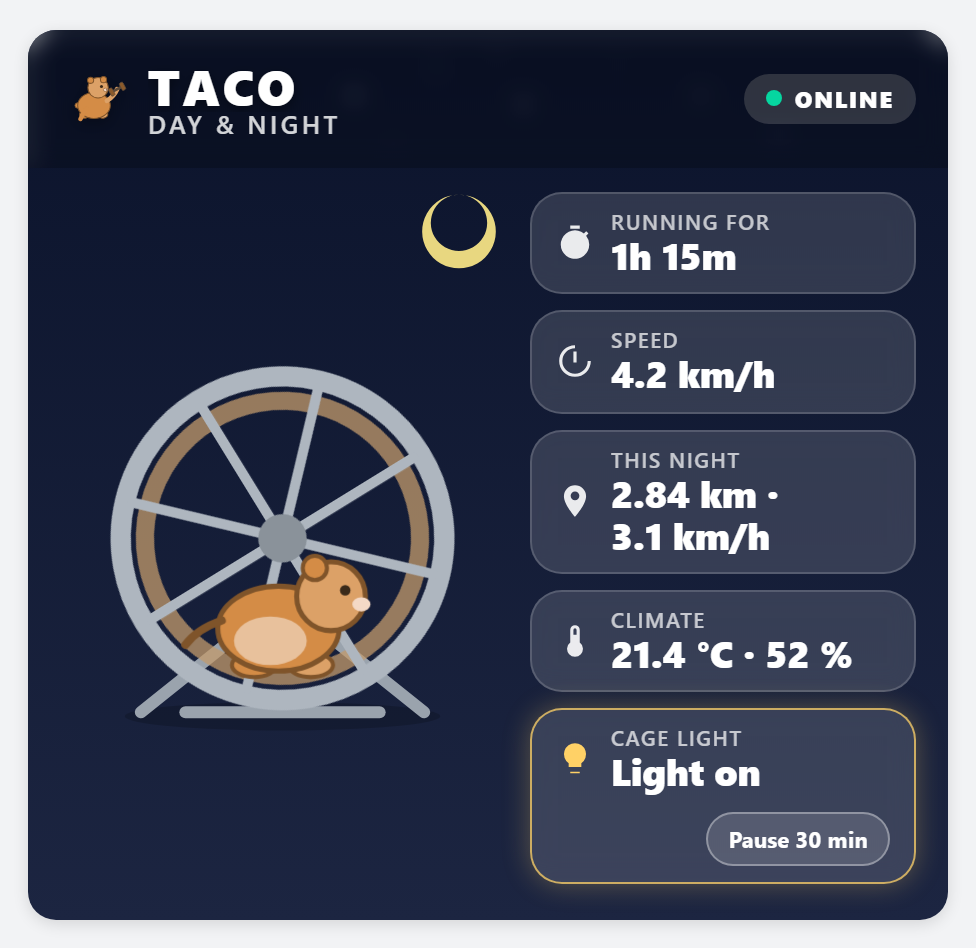
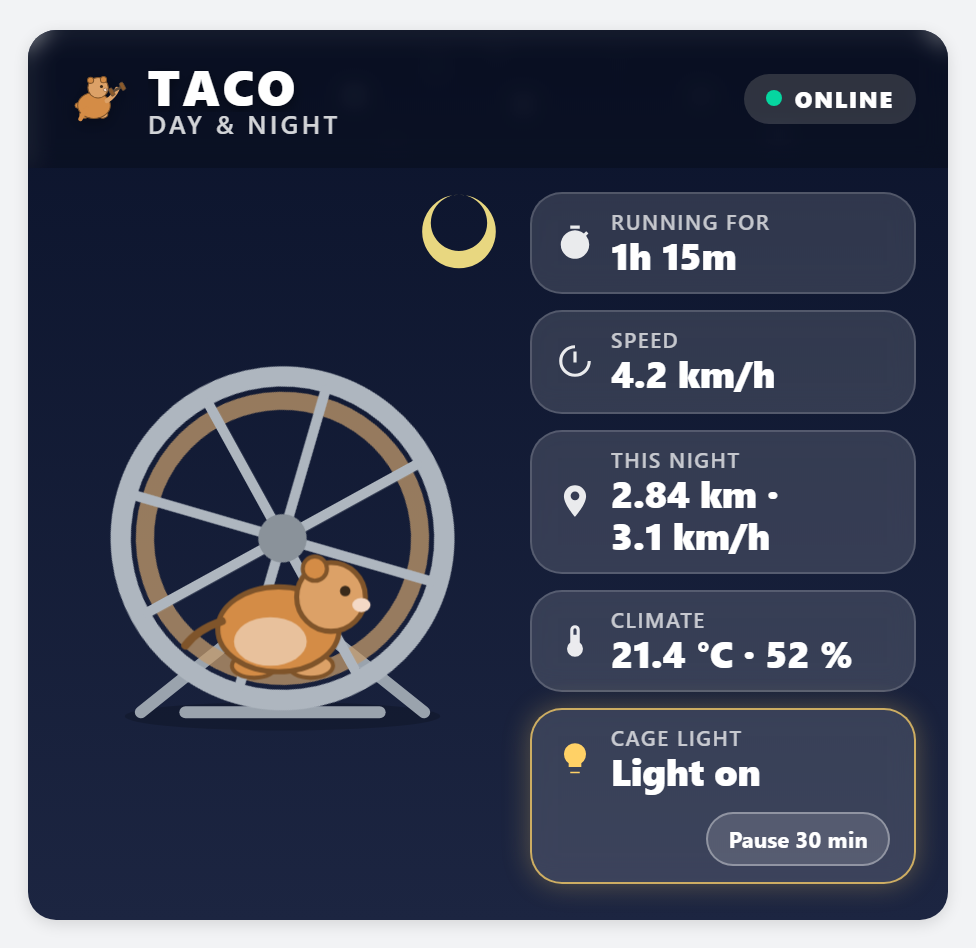
Count running sessions per night, and show them on the Running card
Total active time hides the pattern it is made of: ninety minutes in
one go and six bursts of fifteen add up to the same number, but they
are not the same night.

The coordinator already knew where a session begins - the branch that
starts one also increments the sleep-disturbance counter. That counter
answers a different question (was the hamster woken, daytime only), so
this adds its own night-scoped tally next to it rather than reusing it.
Reset with the rest of the night-window state, and not persisted, for
the same reason _night_active_minutes isn't.

The count rides inside its bar rather than earning a fourth axis: it is
a small integer, and an axis for it would cost more room than it
explains. Drawn after the overlay lines, because the speed line runs
right across the bar tops and was striking the digits through, and
outlined in the bar's own colour so a crossing line still can't cut one
in half. Bars too short to hold a digit legibly just omit it.

Nights recorded before this existed carry no count, so the card shows
no number and drops the legend entry for them - the history survives
upgrades, and a zero would read as "never ran" rather than "not
recorded".

Closes #90

diff --git a/custom_components/hamster_fitness/frontend/hamster-running-card.js b/custom_components/hamster_fitness/frontend/hamster-running-card.js
@@ -33,7 +33,7 @@ import {
   renderCardHeader,
   deviceDisplayName,
   t,
-} from "./hamster-fitness-shared.js?v=12";
+} from "./hamster-fitness-shared.js?v=13";
 
 const ENTITY_PATTERN = /^sensor\.(.+)_health_score$/;
 
@@ -153,6 +153,10 @@ class HamsterRunningCard extends HTMLElement {
       avg_speed_kmh: _num(item.avg_speed_kmh),
       temperature_c: _num(item.temperature_c),
       humidity_pct: _num(item.humidity_pct),
+      // Absent on nights recorded before session counting existed - the
+      // history survives upgrades, so old entries simply have no number
+      // rather than a misleading zero.
+      sessions: _num(item.sessions),
     }));
   }
 
@@ -187,6 +191,29 @@ class HamsterRunningCard extends HTMLElement {
           <text class="hrc-xlabel" x="${x.toFixed(1)}" y="${CHART_H - 5}"
                 text-anchor="middle">${fmtWeekday(this._hass, night.date)}</text>
         `;
+      })
+      .join("");
+  }
+
+  /**
+   * The per-night session counts, drawn inside the top of each bar.
+   *
+   * A count, not a measurement - so it rides in the bar rather than
+   * earning a fourth axis for a single-digit integer. Rendered after the
+   * overlay lines on purpose: the speed line runs right across the bar
+   * tops and was striking the digits through.
+   */
+  _sessionLabels(nights, max) {
+    const slot = PLOT_W / nights.length;
+    return nights
+      .map((night, i) => {
+        const h = Number.isFinite(night.distance) ? (night.distance / max) * PLOT_H : 0;
+        // Skip bars too short to hold the digit inside them.
+        if (!Number.isFinite(night.sessions) || night.sessions <= 0 || h <= 16) return "";
+        const x = PAD_LEFT + slot * (i + 0.5);
+        const y = PAD_TOP + PLOT_H - h + 11;
+        return `<text class="hrc-sessions" x="${x.toFixed(1)}" y="${y.toFixed(1)}"
+                      text-anchor="middle">${night.sessions}</text>`;
       })
       .join("");
   }
@@ -280,11 +307,12 @@ class HamsterRunningCard extends HTMLElement {
         ${this._rule(average, max, "hrc-rule-avg")}
         ${this._rule(goal, max, "hrc-rule-goal")}
         ${lines}
+        ${this._sessionLabels(nights, max)}
       </svg>
     `;
   }
 
-  _legend(goal) {
+  _legend(goal, nights) {
     const goalText =
       goal > 0
         ? `<span class="hrc-legend-item"><i class="hrc-swatch hrc-swatch-goal"></i>${t(
@@ -292,6 +320,14 @@ class HamsterRunningCard extends HTMLElement {
             "running.goal"
           )} ${fmtNumber(this._hass, goal, 1, "km")}</span>`
         : "";
+    // Only explained when a number is actually on a bar - nights recorded
+    // before session counting existed carry none.
+    const sessionsText = nights.some((n) => Number.isFinite(n.sessions) && n.sessions > 0)
+      ? `<span class="hrc-legend-item"><i class="hrc-swatch hrc-swatch-sessions"></i>${t(
+          this._hass,
+          "running.sessions"
+        )}</span>`
+      : "";
     return `
       <div class="hrc-legend">
         <span class="hrc-legend-item"><i class="hrc-swatch hrc-swatch-avg"></i>${t(
@@ -299,6 +335,7 @@ class HamsterRunningCard extends HTMLElement {
           "running.average"
         )}</span>
         ${goalText}
+        ${sessionsText}
       </div>
     `;
   }
@@ -394,7 +431,7 @@ class HamsterRunningCard extends HTMLElement {
     this._bodyEl.innerHTML = nights.length
       ? `
         ${this._chart(nights, goal)}
-        ${this._legend(goal)}
+        ${this._legend(goal, nights)}
         ${this._toggles()}
         ${this._records(attrs)}
       `
@@ -475,6 +512,19 @@ HamsterRunningCard.styles = `
     font-size: 9px;
     font-family: inherit;
   }
+  /* Sits on the bar itself, so it needs to read against the coat colour
+     rather than against the card background. */
+  .hrc-sessions {
+    fill: #ffffff;
+    font-size: 9px;
+    font-weight: 700;
+    font-family: inherit;
+    /* Outlined in the bar's own colour and painted stroke-first, so a
+       line crossing the bar top cannot cut the digit in half. */
+    stroke: var(--hf-fur, #D48C46);
+    stroke-width: 2.5;
+    paint-order: stroke;
+  }
   .hrc-rule-goal {
     stroke: #2a9d8f;
     stroke-width: 1.5;
@@ -521,6 +571,12 @@ HamsterRunningCard.styles = `
   }
   .hrc-swatch-avg {
     background: var(--secondary-text-color);
+  }
+  .hrc-swatch-sessions {
+    width: 8px;
+    height: 8px;
+    border-radius: 2px;
+    background: var(--hf-fur, #D48C46);
   }
   .hrc-toggle {
     display: inline-flex;

diff --git a/tools/card-preview/screenshots.html b/tools/card-preview/screenshots.html
@@ -148,13 +148,13 @@ function healthHass() {
       lifetime_max_speed_kmh: 12.8,
       lifetime_max_speed_date: "2026-07-09",
       night_history: [
-        { date: "2026-07-31", distance_km: 4.1, avg_speed_kmh: 2.6, max_speed_kmh: 9.4, temperature_c: 22.8, humidity_pct: 54 },
-        { date: "2026-08-01", distance_km: 6.7, avg_speed_kmh: 3.4, max_speed_kmh: 11.1, temperature_c: 21.9, humidity_pct: 51 },
-        { date: "2026-08-02", distance_km: 8.2, avg_speed_kmh: 3.9, max_speed_kmh: 12.0, temperature_c: 20.4, humidity_pct: 49 },
-        { date: "2026-08-03", distance_km: 5.4, avg_speed_kmh: 3.1, max_speed_kmh: 10.2, temperature_c: 23.6, humidity_pct: 57 },
-        { date: "2026-08-04", distance_km: 2.9, avg_speed_kmh: 2.2, max_speed_kmh: 7.8, temperature_c: 25.9, humidity_pct: 61 },
-        { date: "2026-08-05", distance_km: 7.1, avg_speed_kmh: 3.6, max_speed_kmh: 11.6, temperature_c: 21.2, humidity_pct: 50 },
-        { date: "2026-08-06", distance_km: 6.1, avg_speed_kmh: 3.3, max_speed_kmh: 10.8, temperature_c: 22.1, humidity_pct: 52 },
+        { sessions: 3, date: "2026-07-31", distance_km: 4.1, avg_speed_kmh: 2.6, max_speed_kmh: 9.4, temperature_c: 22.8, humidity_pct: 54 },
+        { sessions: 5, date: "2026-08-01", distance_km: 6.7, avg_speed_kmh: 3.4, max_speed_kmh: 11.1, temperature_c: 21.9, humidity_pct: 51 },
+        { sessions: 6, date: "2026-08-02", distance_km: 8.2, avg_speed_kmh: 3.9, max_speed_kmh: 12.0, temperature_c: 20.4, humidity_pct: 49 },
+        { sessions: 4, date: "2026-08-03", distance_km: 5.4, avg_speed_kmh: 3.1, max_speed_kmh: 10.2, temperature_c: 23.6, humidity_pct: 57 },
+        { sessions: 2, date: "2026-08-04", distance_km: 2.9, avg_speed_kmh: 2.2, max_speed_kmh: 7.8, temperature_c: 25.9, humidity_pct: 61 },
+        { sessions: 5, date: "2026-08-05", distance_km: 7.1, avg_speed_kmh: 3.6, max_speed_kmh: 11.6, temperature_c: 21.2, humidity_pct: 50 },
+        { sessions: 4, date: "2026-08-06", distance_km: 6.1, avg_speed_kmh: 3.3, max_speed_kmh: 10.8, temperature_c: 22.1, humidity_pct: 52 },
       ],
     },
   };

diff --git a/custom_components/hamster_fitness/frontend/hamster-fitness-shared.js b/custom_components/hamster_fitness/frontend/hamster-fitness-shared.js
@@ -189,6 +189,7 @@ const STRINGS = {
     "running.average": "Average",
     "running.temperature": "Temperature",
     "running.humidity": "Humidity",
+    "running.sessions": "Runs per night (in the bar)",
     "running.records": "Personal bests",
     "running.bestNight": "Longest night",
     "running.fastest": "Fastest ever",
@@ -403,6 +404,7 @@ const STRINGS = {
     "running.average": "Durchschnitt",
     "running.temperature": "Temperatur",
     "running.humidity": "Luftfeuchtigkeit",
+    "running.sessions": "Läufe pro Nacht (im Balken)",
     "running.records": "Bestleistungen",
     "running.bestNight": "Längste Nacht",
     "running.fastest": "Schnellster Wert",

diff --git a/custom_components/hamster_fitness/frontend/hamster-day-night-card.js b/custom_components/hamster_fitness/frontend/hamster-day-night-card.js
@@ -43,7 +43,7 @@ import {
   renderCardHeader,
   siblingEntityId,
   t,
-} from "./hamster-fitness-shared.js?v=12";
+} from "./hamster-fitness-shared.js?v=13";
 
 const HEALTH_SCORE_SUFFIX = "_health_score";
 const ENTITY_PATTERN = /^sensor\.(.+)_health_score$/;

diff --git a/custom_components/hamster_fitness/frontend/hamster-weight-card.js b/custom_components/hamster_fitness/frontend/hamster-weight-card.js
@@ -39,7 +39,7 @@ import {
   renderCardHeader,
   siblingEntityId,
   t,
-} from "./hamster-fitness-shared.js?v=12";
+} from "./hamster-fitness-shared.js?v=13";
 
 const HEALTH_SCORE_SUFFIX = "_health_score";
 const ENTITY_PATTERN = /^sensor\.(.+)_health_score$/;

diff --git a/custom_components/hamster_fitness/frontend/hamster-chronicle-card.js b/custom_components/hamster_fitness/frontend/hamster-chronicle-card.js
@@ -40,7 +40,7 @@ import {
   deviceDisplayName,
   t,
   HAMSTER_PREFIX,
-} from "./hamster-fitness-shared.js?v=12";
+} from "./hamster-fitness-shared.js?v=13";
 
 const LIFETIME_DISTANCE_PATTERN = /^sensor\.(.+)_lifetime_distance$/;
 

diff --git a/custom_components/hamster_fitness/frontend/hamster-fitness-card.js b/custom_components/hamster_fitness/frontend/hamster-fitness-card.js
@@ -57,7 +57,7 @@ import {
   shade,
   siblingEntityId,
   t,
-} from "./hamster-fitness-shared.js?v=12";
+} from "./hamster-fitness-shared.js?v=13";
 
 const WARNING_SCORE_THRESHOLD = 50;
 const GOOD_SCORE_THRESHOLD = 75;

diff --git a/custom_components/hamster_fitness/coordinator.py b/custom_components/hamster_fitness/coordinator.py
@@ -146,6 +146,11 @@ class HamsterFitnessData:
     # Sekunden würde nur die gerade aktuelle Geschwindigkeit wiedergeben,
     # nicht "wie ist der Hamster heute Nacht gelaufen".
     night_avg_speed_kmh: float | None = None
+    # Anzahl getrennter Lauf-Sessions in diesem Nachtfenster (Pausen
+    # < SESSION_END_GAP trennen nicht, siehe _update_activity_session).
+    # Die Gesamtzeit allein verschweigt das Muster: 90 Minuten am Stück
+    # und sechsmal 15 Minuten ergeben dieselbe Summe.
+    night_sessions: int = 0
     # Endstand des zuletzt ABGESCHLOSSENEN Nachtfensters (eingefroren beim
     # Reset um NIGHT_WINDOW_START_HOUR). Zusammen mit night_distance_km die
     # Grundlage des Bewegungs-Abzugs, siehe _effective_distance_km() - ohne
@@ -313,6 +318,11 @@ class HamsterFitnessCoordinator(DataUpdateCoordinator[HamsterFitnessData]):
         # Summen laufen über dasselbe Fenster wie night_distance_km und
         # werden beim Nachtfenster-Reset in einen Mittelwert aufgelöst.
         self._night_history: list[dict[str, Any]] = []
+        # Wie viele getrennte Lauf-Sessions dieses Nachtfenster hatte.
+        # Aussagekräftig zusätzlich zur Gesamtzeit: 90 Minuten am Stück
+        # sehen anders aus als sechsmal 15 Minuten, obwohl die Summe
+        # gleich ist. Wie _night_active_minutes bewusst nicht persistiert.
+        self._night_sessions: int = 0
         self._night_temp_sum: float = 0.0
         self._night_temp_samples: int = 0
         self._night_humidity_sum: float = 0.0
@@ -726,6 +736,7 @@ class HamsterFitnessCoordinator(DataUpdateCoordinator[HamsterFitnessData]):
         )
         self._max_speed_tonight_kmh = None
         self._night_active_minutes = 0.0
+        self._night_sessions = 0
         self._night_temp_sum = 0.0
         self._night_temp_samples = 0
         self._night_humidity_sum = 0.0
@@ -770,6 +781,7 @@ class HamsterFitnessCoordinator(DataUpdateCoordinator[HamsterFitnessData]):
             "distance_km": round(self.data.night_distance_km, 3),
             "avg_speed_kmh": self.data.night_avg_speed_kmh,
             "max_speed_kmh": self._max_speed_tonight_kmh,
+            "sessions": self._night_sessions,
             "temperature_c": (
                 round(self._night_temp_sum / self._night_temp_samples, 1)
                 if self._night_temp_samples
@@ -1170,6 +1182,10 @@ class HamsterFitnessCoordinator(DataUpdateCoordinator[HamsterFitnessData]):
             self._last_activity_at = now
             if self._session_start_at is None:
                 self._session_start_at = now
+                # Counted for the night, whenever it happens. The sleep
+                # counter below is a different question - it asks whether
+                # the hamster was woken, and only fires during the day.
+                self._night_sessions += 1
                 if _in_sleep_phase(now):
                     # Der Hamster läuft mitten in seiner Hauptschlafphase -
                     # meist ein Zeichen dafür, dass ihn etwas geweckt hat.
@@ -1384,6 +1400,7 @@ class HamsterFitnessCoordinator(DataUpdateCoordinator[HamsterFitnessData]):
             previous_day_distance_km=self._previous_day_distance_km,
             night_distance_km=round(night_distance_km, 3),
             night_avg_speed_kmh=night_avg_speed_kmh,
+            night_sessions=self._night_sessions,
             last_completed_night_km=round(self._last_completed_night_km, 3),
             lifetime_distance_km=round(lifetime_distance_km, 3),
             temperature=temperature,

diff --git a/tests/test_night_history.py b/tests/test_night_history.py
@@ -89,6 +89,7 @@ async def test_closing_a_night_appends_one_entry(hass: HomeAssistant) -> None:
         "distance_km",
         "avg_speed_kmh",
         "max_speed_kmh",
+        "sessions",
         "temperature_c",
         "humidity_pct",
     }
@@ -230,3 +231,52 @@ async def test_best_night_outlives_the_rolling_window(hass: HomeAssistant) -> No
     assert 42.0 not in [
         item["distance_km"] for item in coordinator.data.night_history
     ]
+
+
+async def test_sessions_are_counted_per_night(hass: HomeAssistant) -> None:
+    """Total active time hides the pattern; the count is what shows it.
+
+    Ninety minutes in one go and six bursts of fifteen add up the same,
+    so the number of separate sessions is tracked alongside the duration.
+    """
+    coordinator = await _setup(hass)
+    now = dt_util.utcnow()
+
+    # Two pulses inside one session, then a gap long enough to end it,
+    # then another pulse - two sessions, not three and not one.
+    coordinator._update_activity_session(now, activity_detected=True)
+    coordinator._update_activity_session(now + timedelta(minutes=1), True)
+    assert coordinator._night_sessions == 1
+
+    later = now + timedelta(hours=3)
+    coordinator._update_activity_session(later, activity_detected=False)
+    coordinator._update_activity_session(later, activity_detected=True)
+
+    assert coordinator._night_sessions == 2
+
+
+async def test_session_count_lands_in_the_night_entry(hass: HomeAssistant) -> None:
+    coordinator = await _setup(hass)
+
+    coordinator._update_activity_session(dt_util.utcnow(), activity_detected=True)
+    _close_night(coordinator)
+    await hass.async_block_till_done()
+
+    assert coordinator.data.night_history[0]["sessions"] == 1
+
+
+async def test_session_count_resets_between_nights(hass: HomeAssistant) -> None:
+    """Otherwise every night would inherit the previous night's total."""
+    coordinator = await _setup(hass)
+
+    coordinator._update_activity_session(dt_util.utcnow(), activity_detected=True)
+    _close_night(coordinator)
+    await hass.async_block_till_done()
+
+    assert coordinator.data.night_sessions == 0
+
+    coordinator._night_window_start = dt_util.now() - timedelta(days=1)
+    _close_night(coordinator)
+    await hass.async_block_till_done()
+
+    assert coordinator.data.night_history[-1]["sessions"] == 0

diff --git a/custom_components/hamster_fitness/const.py b/custom_components/hamster_fitness/const.py
@@ -332,7 +332,7 @@ URL_BASE: Final = f"/{DOMAIN}-frontend"
 # Bei jeder Änderung an hamster-fitness-shared.js hochzählen UND denselben
 # Wert in den ?v=-Importen aller Kartendateien nachziehen. tests/
 # test_frontend_resources.py prüft das ab, damit es nicht vergessen wird.
-SHARED_MODULE_VERSION: Final = "12"
+SHARED_MODULE_VERSION: Final = "13"
 # "version" steuert das Cache-Busting (?v=...) der Lovelace-Resource - bei
 # jeder inhaltlichen Änderung an der .js-Datei hochzählen, sonst laden
 # Browser ggf. die alte, gecachte Version weiter aus.
@@ -355,7 +355,7 @@ JS_MODULES: Final[list[dict[str, str]]] = [
     {
         "name": "Hamster Running Card",
         "filename": "hamster-running-card.js",
-        "version": "1",
+        "version": "2",
     },
     {
         "name": "Hamster Weight Card",

diff --git a/custom_components/hamster_fitness/sensor.py b/custom_components/hamster_fitness/sensor.py
@@ -122,6 +122,7 @@ class HamsterHealthScoreSensor(HamsterFitnessSensorBase):
             **self._profile,
             "night_distance_km": data.night_distance_km,
             "night_avg_speed_kmh": data.night_avg_speed_kmh,
+            "night_sessions": data.night_sessions,
             "last_completed_night_km": data.last_completed_night_km,
             "daily_distance_km": data.daily_distance_km,
             "temperature": data.temperature,

diff --git a/docs/cards/running.md b/docs/cards/running.md
@@ -18,6 +18,11 @@ answers "is that normal". Seven bars, one per completed night, with:
 - **Average speed** as a line over the bars, on by default. Distance says
   how much the hamster ran; speed says how hard. A short but fast night
   looks quite different from a short, listless one.
+- **Runs per night** as a small number inside each bar: how many
+  separate sessions that night's distance was made of. The total time
+  alone hides the pattern — ninety minutes in one go and six bursts of
+  fifteen add up the same, but they are not the same night. Nights
+  recorded before this existed simply show no number.
 - **Personal bests**: the longest single night and the fastest speed ever
   measured, each with the date it happened. Neither is capped to the
   seven-night window — a record set months ago still stands.
